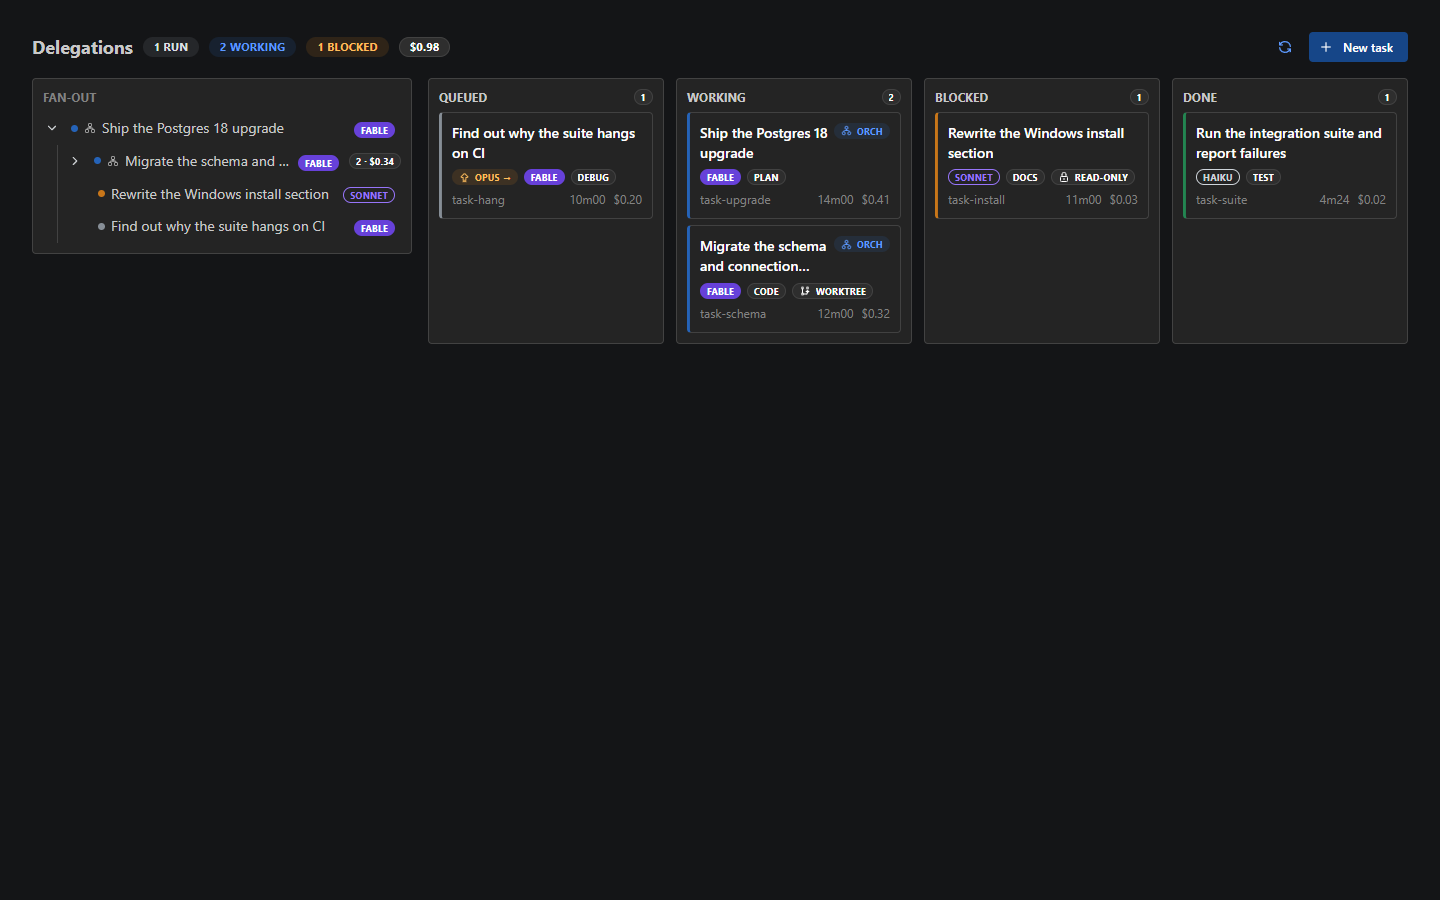
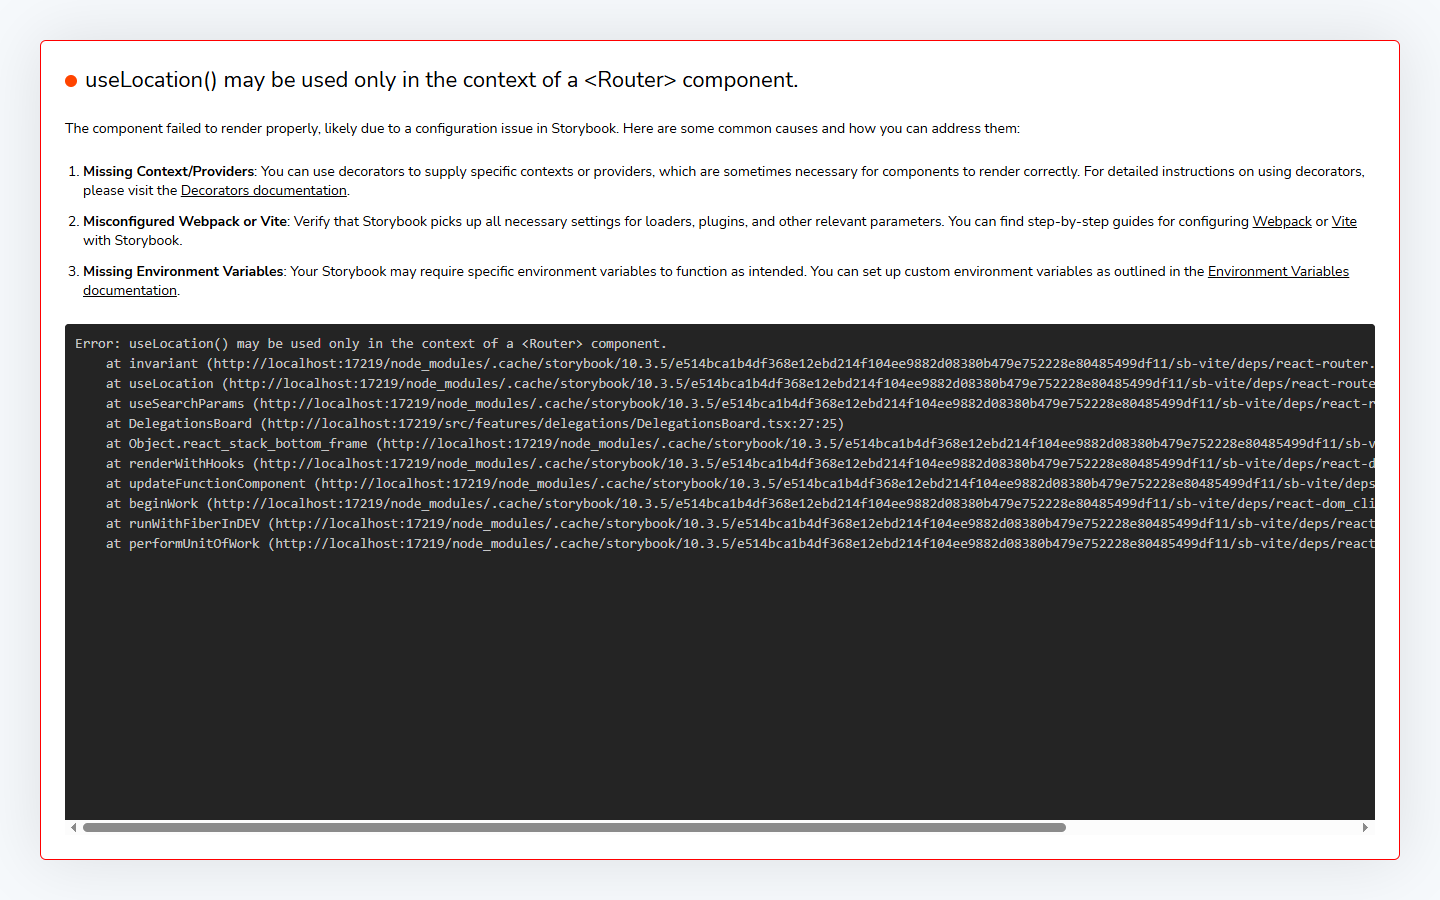
feat(delegations): CARD-0093 S3 history links, docs, screenshots
Done-group MoreLink, kebab, settled workLineTarget and mobile away-band
now point at ?tab=history. Documented GET /api/agent-tasks query params
and /summary. Regenerated delegations screenshots including History.

features/home 137/137 green. Browser-checked on worktree Vite :17303
against live 17202: active board is a handful of rows with Just settled
and 823 runs; History virtualizes 323 settled; Failed filter works;
?task= opens the drawer on a board that does not list that settled id;
mobile '+ N more settled' lands on History.

diff --git a/client/src/features/home/tasks/TasksSection.tsx b/client/src/features/home/tasks/TasksSection.tsx
@@ -149,7 +149,7 @@ export function TasksSection({
                   />
                 ))
               )}
-              <MoreLink hidden={hidden} visible={visible} />
+              <MoreLink hidden={hidden} visible={visible} group={group} />
             </Stack>
           )
         })}
@@ -177,8 +177,23 @@ function SectionHeader() {
   )
 }
 
-function MoreLink({ hidden, visible }: { hidden: number; visible: HomeTaskItemDto[] }) {
+function MoreLink({
+  hidden,
+  visible,
+  group,
+}: {
+  hidden: number
+  visible: HomeTaskItemDto[]
+  group: HomeTaskGroup
+}) {
   if (hidden <= 0) return null
+  if (group === 'Done') {
+    return (
+      <Anchor component={Link} to="/orchestrator?tab=history" size="xs" c="dimmed">
+        +{hidden} more → open history
+      </Anchor>
+    )
+  }
   const card = visible.find((row) => row.source === 'Card' && row.boardId)
   const to = card?.boardId ? `/boards/${card.boardId}` : '/orchestrator?tab=delegations'
   const label = card

diff --git a/client/src/features/home/workLineFormat.ts b/client/src/features/home/workLineFormat.ts
@@ -1,5 +1,5 @@
 import type { AgentTaskSummaryDto } from '../../api/agentTasks'
-import { formatCost, tierAlias } from '../delegations/taskVisuals'
+import { formatCost, isSettled, tierAlias } from '../delegations/taskVisuals'
 
 /**
  * The pure half of `WorkLine` (spec §D3 band 2): one live task as the orchestrator loop's own
@@ -71,5 +71,6 @@ export function taskWorkLine(
 export function workLineTarget(task: AgentTaskSummaryDto): string {
   const match = TITLE_CITATION.exec(task.title)
   if (match) return `/thread/card-${Number(match[1])}`
+  if (isSettled(task.status)) return `/orchestrator?tab=history&task=${task.id}`
   return `/orchestrator?tab=delegations&task=${task.id}`
 }

diff --git a/client/src/features/home/tasks/TaskCard.tsx b/client/src/features/home/tasks/TaskCard.tsx
@@ -317,7 +317,14 @@ export function TaskCard({
             </Menu.Item>
           )}
           {item.source === 'Delegation' && (
-            <Menu.Item component={Link} to={`/orchestrator?tab=delegations&task=${item.id}`}>
+            <Menu.Item
+              component={Link}
+              to={
+                item.group === 'Done'
+                  ? `/orchestrator?tab=history&task=${item.id}`
+                  : `/orchestrator?tab=delegations&task=${item.id}`
+              }
+            >
               Open delegations
             </Menu.Item>
           )}

diff --git a/client/src/features/home/tasks/TasksSection.test.tsx b/client/src/features/home/tasks/TasksSection.test.tsx
@@ -354,9 +354,9 @@ describe('TasksSection', () => {
     expect(screen.getByText('Done item 0')).toBeInTheDocument()
     expect(screen.getByText('Done item 11')).toBeInTheDocument()
     expect(screen.queryByText('Done item 12')).not.toBeInTheDocument()
-    expect(screen.getByRole('link', { name: '+1 more → open delegations' })).toHaveAttribute(
+    expect(screen.getByRole('link', { name: '+1 more → open history' })).toHaveAttribute(
       'href',
-      '/orchestrator?tab=delegations',
+      '/orchestrator?tab=history',
     )
   })
 

diff --git a/client/src/features/home/MobileHomePage.tsx b/client/src/features/home/MobileHomePage.tsx
@@ -265,7 +265,7 @@ function AwayBand({ delta }: { delta: AwayDelta }) {
             <>
               <Divider />
               <AwayRow
-                to="/orchestrator?tab=delegations"
+                to="/orchestrator?tab=history"
                 label="all settled work"
                 line={`+ ${hidden} more settled`}
                 sub="open the delegations board"

diff --git a/docs/ui-screenshots/README.md b/docs/ui-screenshots/README.md
@@ -34,6 +34,14 @@ here before anyone opens the app.
 
 ![agents-filesreviewpanel--diff-no-threads](./agents-filesreviewpanel--diff-no-threads.png)
 
+## Agents/HerdrStatusBadge — States
+
+![agents-herdrstatusbadge--states](./agents-herdrstatusbadge--states.png)
+
+## Agents/HerdrStatusBadge — Disagreement
+
+![agents-herdrstatusbadge--disagreement](./agents-herdrstatusbadge--disagreement.png)
+
 ## Agents/SessionTranscriptPanel — Conversation
 
 ![agents-sessiontranscriptpanel--conversation](./agents-sessiontranscriptpanel--conversation.png)
@@ -70,17 +78,17 @@ here before anyone opens the app.
 
 ![delegations-board--delegate](./delegations-board--delegate.png)
 
+## Delegations/Board — History
+
+![delegations-board--history](./delegations-board--history.png)
+
+## Delegations/History — History
+
+![delegations-history--history](./delegations-history--history.png)
+
 ## Home/TasksSection — Rail
 
 ![home-taskssection--rail](./home-taskssection--rail.png)
-
-## Proposals/Mobile home — Needs You
-
-![proposals-mobile-home--needs-you](./proposals-mobile-home--needs-you.png)
-
-## Proposals/Mobile home — Calm
-
-![proposals-mobile-home--calm](./proposals-mobile-home--calm.png)
 
 ## Proposals/Card thread — Open
 
@@ -89,6 +97,14 @@ here before anyone opens the app.
 ## Proposals/Card thread — Settled
 
 ![proposals-card-thread--settled](./proposals-card-thread--settled.png)
+
+## Proposals/Mobile home — Needs You
+
+![proposals-mobile-home--needs-you](./proposals-mobile-home--needs-you.png)
+
+## Proposals/Mobile home — Calm
+
+![proposals-mobile-home--calm](./proposals-mobile-home--calm.png)
 
 ## Proposals/Plan reader — ToC first
 

diff --git a/docs/antiphon-api.md b/docs/antiphon-api.md
@@ -207,7 +207,15 @@ curl -s -X POST http://localhost:17202/api/agents/{id}/attach-herdr \
 
 ```
 POST   /api/agent-tasks                      create (CreateAgentTaskRequest)
-GET    /api/agent-tasks  |  /api/agent-tasks/{id}      {id} accepts the 8-char short id
+GET    /api/agent-tasks                      list. Query: rootId, status (comma list of
+                                             AgentTaskStatus), includeChecks (bool, default false),
+                                             since (ISO instant). `since` keeps every non-settled
+                                             row regardless of age and trims only settled rows by
+                                             CompletedAt. Omitting every filter returns the full
+                                             table — scripts and `delegate.ps1` depend on that.
+GET    /api/agent-tasks/{id}                 {id} accepts the 8-char short id
+GET    /api/agent-tasks/summary              fleet-wide counters (active, blocked, runs,
+                                             totalCostUsd, byStatus), independent of the list window
 POST   /api/agent-tasks/{id}/cancel  |  /retry  |  /escalate
 POST   /api/agent-tasks/{id}/reply           answer a Blocked delegate's question
 POST   /api/agent-tasks/{id}/refine          steer a running delegate without cancelling it

diff --git a/docs/features/007-multi-agent-orchestration/proposal.md b/docs/features/007-multi-agent-orchestration/proposal.md
@@ -550,6 +550,8 @@ hooks can refuse a tool call outright, which turns the rule into an invariant.
 > `TaskChip`/`TierBadge`, `TaskDrawer`, `DelegateModal`; mounted as the second tab of
 > `features/orchestrator/OrchestratorPage` (`/orchestrator?tab=delegations`) and reachable from the
 > files view's "Delegate…". Screenshots: `docs/ui-screenshots/delegations-board--*.png`.
+> Lanes are active-only with a sixty-minute *Just settled* grace; settled work is the *History*
+> tab (`/orchestrator?tab=history`) (CARD-0093).
 
 **Delegations board** — a second tab on the existing `/orchestrator` page rather than a new
 top-level section; that page already owns "what is the fleet doing right now". Left: the task tree
